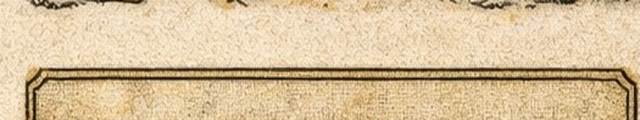
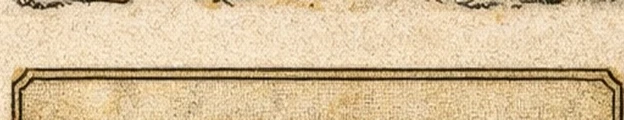
fix: button parchment bleed, Graphics Apply button, Music bus routing
- Cropped all 8 button textures to remove left-side parchment bleed
  (640x120 -> 624x120), updated 9-slice margins accordingly
- Graphics panel: fullscreen toggle is now staged, Apply button commits
  the change (was instant on checkbox click)
- Music player routed to 'Music' bus so Music Volume slider works
  (was on Master bus, so only Master slider had effect)
- Added COMMON_APPLY translation key

diff --git a/scripts/Screens/MainMenuScreen.cs b/scripts/Screens/MainMenuScreen.cs
@@ -153,27 +153,43 @@ public partial class MainMenuScreen : Control
             var title = UIKit.MakeDisplayLabel(Tr(TK.MenuGraphics), 22);
             vbox.AddChild(title);
 
-            // Fullscreen toggle
+            // Fullscreen toggle (staged, not instant)
             var fsRow = new HBoxContainer();
             var fsLabel = UIKit.MakeBodyLabel(Tr(TK.SettingsFullscreen), 16, UIKit.ColParchment);
             fsLabel.SizeFlagsHorizontal = SizeFlags.ExpandFill;
             fsRow.AddChild(fsLabel);
 
+            var sm = OregonTrail2026.Systems.SettingsManager.Instance;
             var fsToggle = new CheckButton();
-            fsToggle.ButtonPressed = OregonTrail2026.Systems.SettingsManager.Instance.Fullscreen;
-            fsToggle.Toggled += (on) => OregonTrail2026.Systems.SettingsManager.Instance.Fullscreen = on;
+            fsToggle.ButtonPressed = sm.Fullscreen;
             fsRow.AddChild(fsToggle);
             vbox.AddChild(fsRow);
+
+            // Button row
+            var btnRow = new HBoxContainer();
+            btnRow.AddThemeConstantOverride("separation", 12);
+            btnRow.Alignment = BoxContainer.AlignmentMode.Center;
+
+            // Apply button
+            var btnApply = UIKit.MakeSecondaryButton(Tr(TK.CommonApply), 16);
+            btnApply.SizeFlagsHorizontal = SizeFlags.ShrinkCenter;
+            btnApply.Pressed += () =>
+            {
+                sm.Fullscreen = fsToggle.ButtonPressed;
+                GD.Print($"[MainMenu] Applied fullscreen={fsToggle.ButtonPressed}");
+            };
+            btnRow.AddChild(btnApply);
 
             // Back button
             var btnBack = UIKit.MakeSecondaryButton(Tr(TK.SettingsBack), 16);
             btnBack.SizeFlagsHorizontal = SizeFlags.ShrinkCenter;
             btnBack.Pressed += CloseSettingsPanel;
-            vbox.AddChild(btnBack);
+            btnRow.AddChild(btnBack);
+
+            vbox.AddChild(btnRow);
 
             ((PanelContainer)_settingsPanel).AddChild(vbox);
 
-            // Position overlay in center
             _settingsPanel.SetAnchor(Side.Left, 0.25f);
             _settingsPanel.SetAnchor(Side.Right, 0.75f);
             _settingsPanel.SetAnchor(Side.Top, 0.3f);

diff --git a/scripts/Utils/UIKit.cs b/scripts/Utils/UIKit.cs
@@ -253,11 +253,11 @@ public static class UIKit
         return new StyleBoxTexture
         {
             Texture = texture,
-            // 9-slice margins for button textures (640x120)
-            TextureMarginLeft   = 30,
-            TextureMarginRight  = 30,
-            TextureMarginTop    = 30,
-            TextureMarginBottom = 20,
+            // 9-slice margins for button textures (624x120, cropped)
+            TextureMarginLeft   = 18,
+            TextureMarginRight  = 28,
+            TextureMarginTop    = 28,
+            TextureMarginBottom = 18,
             // Content margins (padding inside the button for text)
             ContentMarginLeft   = 20,
             ContentMarginRight  = 20,

diff --git a/scripts/Utils/TK.cs b/scripts/Utils/TK.cs
@@ -87,5 +87,6 @@ public static class TK
     public const string CommonNo            = "COMMON_NO";
     public const string CommonOk            = "COMMON_OK";
     public const string CommonCancel        = "COMMON_CANCEL";
+    public const string CommonApply         = "COMMON_APPLY";
     public const string CommonConfirm       = "COMMON_CONFIRM";
 }

diff --git a/scripts/Screens/MainScene.cs b/scripts/Screens/MainScene.cs
@@ -484,6 +484,7 @@ public partial class MainScene : Control
     {
         if (ResourceLoader.Exists(path))
         {
+            _audioPlayer.Bus = "Music";
             _audioPlayer.Stream = GD.Load<AudioStream>(path);
             _audioPlayer.Play();
         }
